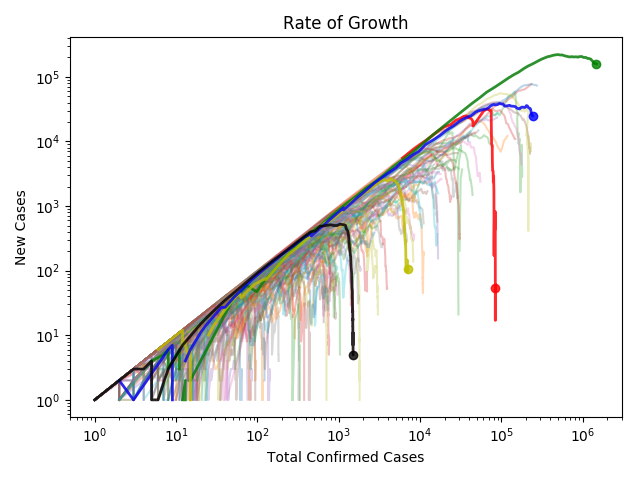
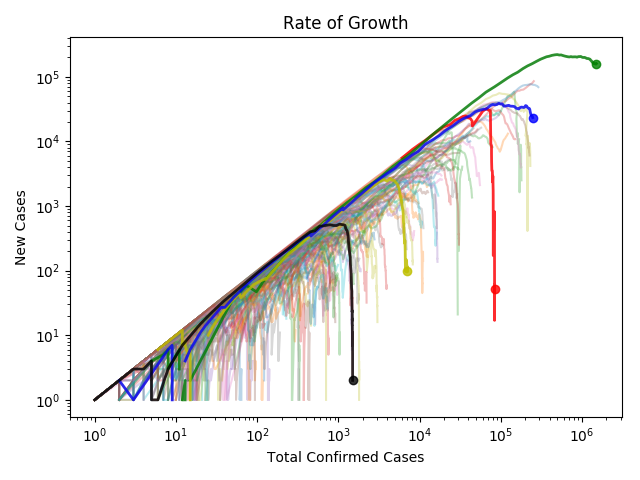
Updated data

diff --git a/NZModel/nz_data.py b/NZModel/nz_data.py
@@ -28,7 +28,7 @@ header=3
 #filename = "covidcase_list_1_apr_2020.xlsx"
 date_column = date_column_sus = "Date notified of potential case"
 #filename = "covid-cases-7may20.xlsx"
-filename = "covid-cases_-_17_may_2020.xlsx"
+filename = "covid-cases-19may20_0.xlsx"
 
 # The data keeps getting worse *sigh*
 def date_decoder(x):
